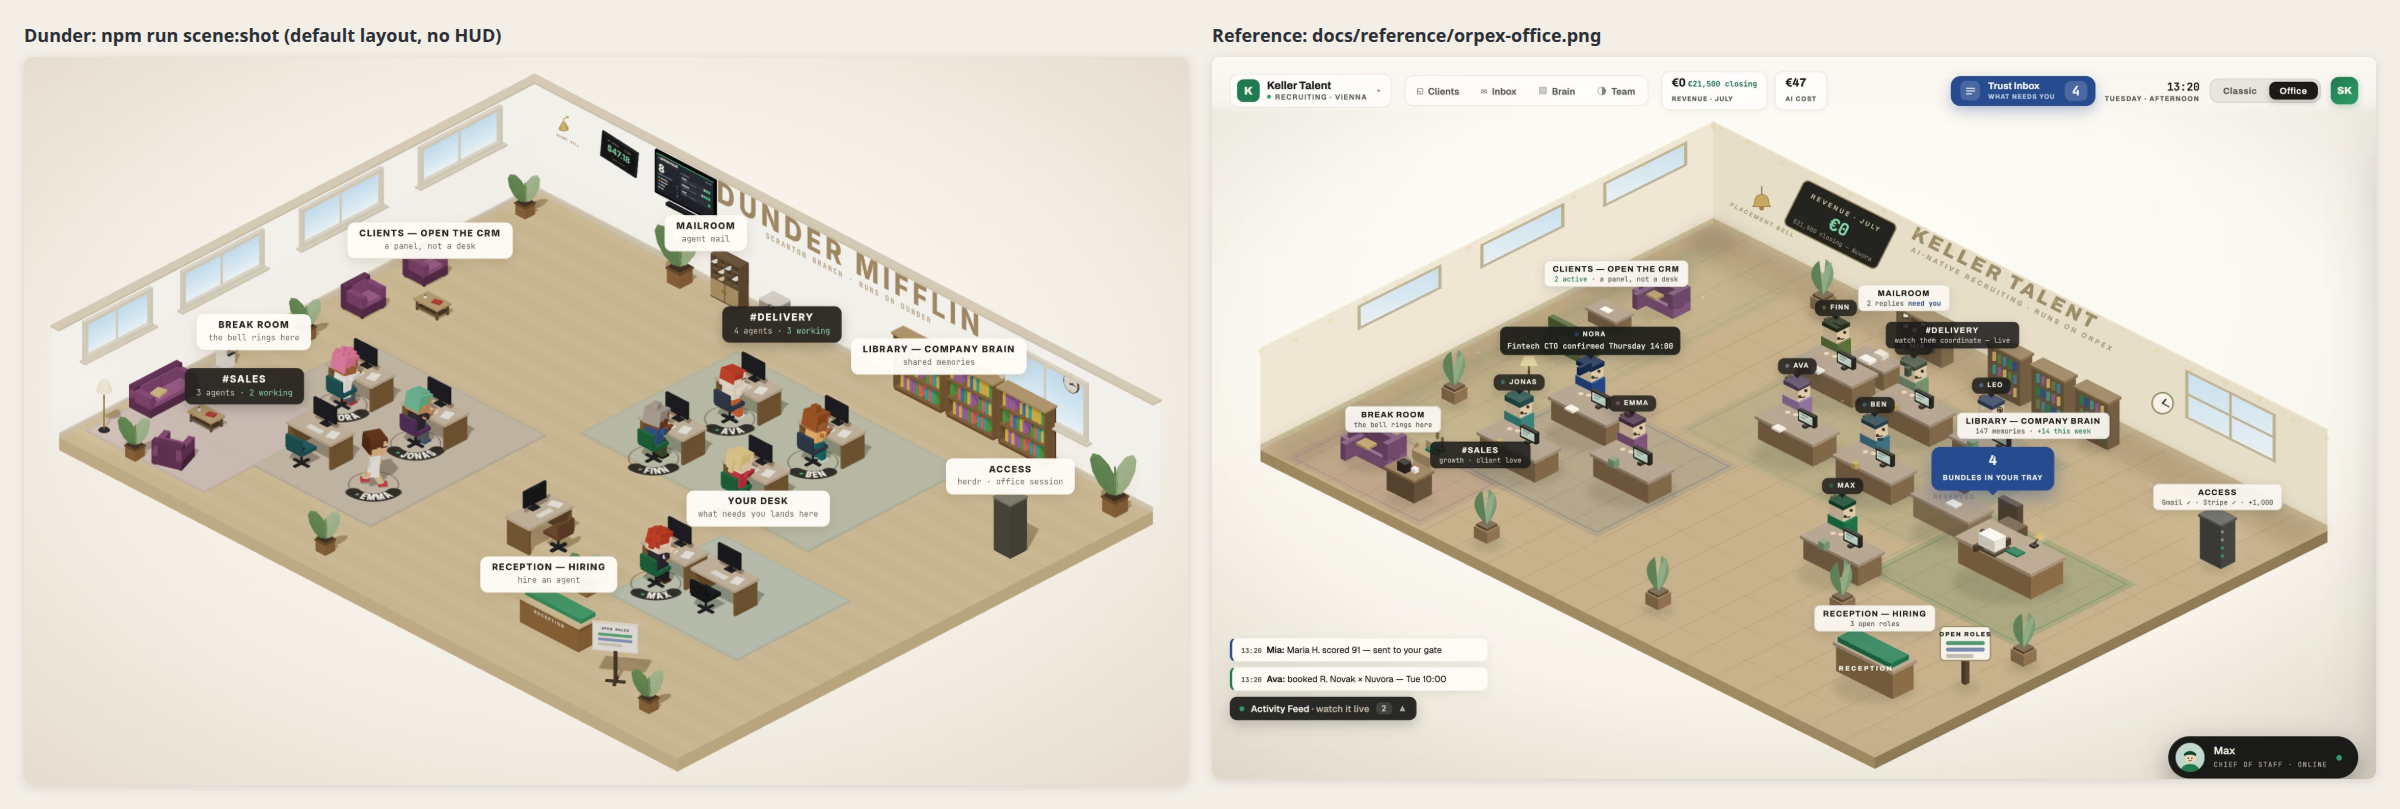
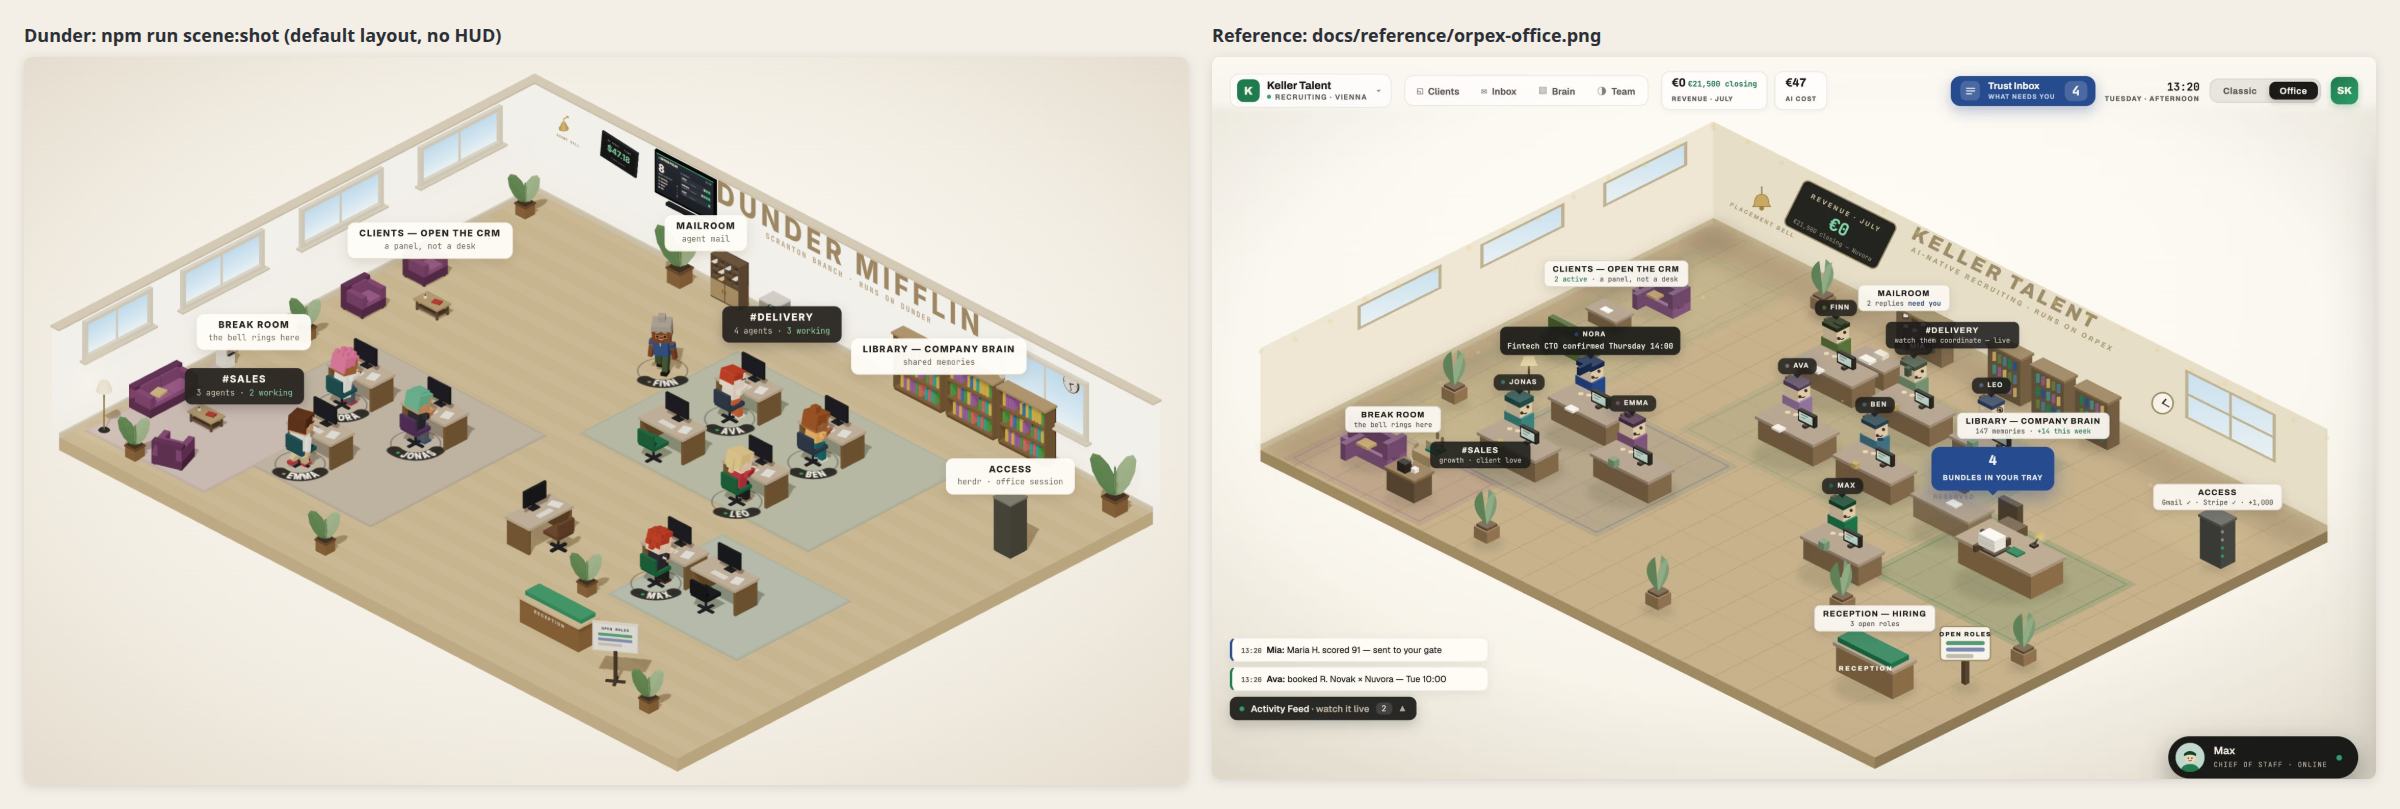
office-bkh: YOUR DESK and RECEPTION become minimal hover captions (zone labelMode always|hover, migration, inspector field); new scene shots

diff --git a/src/shared/layout/default-layout.ts b/src/shared/layout/default-layout.ts
@@ -1,4 +1,4 @@
-import { type Layout, layoutSchema } from "./schema";
+import { type Layout, layoutSchema, type Zone } from "./schema";
 
 /**
  * The starter office, modelled on docs/reference/orpex-office.png: a long
@@ -48,6 +48,7 @@ export const DEFAULT_LAYOUT: Layout = layoutSchema.parse({
 			rug: { center: { x: 7.6, z: 2.4 }, width: 5.4, depth: 4.8, color: "#9fb69a" },
 			labelAt: { x: 7.6, z: 1.2 },
 			labelHeight: 2.6,
+			labelMode: "hover",
 		},
 		{
 			id: "break-room",
@@ -81,6 +82,7 @@ export const DEFAULT_LAYOUT: Layout = layoutSchema.parse({
 			title: "RECEPTION — HIRING",
 			subtitle: "hire an agent",
 			labelAt: { x: 5.4, z: 7.8 },
+			labelMode: "hover",
 		},
 	],
 	// Few stations, mostly filled, as in the reference: a staggered sales pod, a
@@ -208,14 +210,7 @@ const FORMER_DEFAULT_FLOOR = "#cfa979";
 /** The default wall height before it was lowered toward the reference (office-vl9.7). */
 const FORMER_DEFAULT_WALL_HEIGHT = 4.2;
 
-/**
- * Bring a saved layout up to date with changed defaults. Companies copy the
- * default layout when created, so a floor colour or wall height still on its
- * former default was never chosen by anyone: each moves to the current default
- * on its own. Any other value is kept.
- */
-export function migrateLayout(layout: Layout): Layout {
-	const { room } = layout;
+function migrateRoom(room: Layout["room"]): Layout["room"] {
 	const floorColor =
 		room.floorColor.toLowerCase() === FORMER_DEFAULT_FLOOR
 			? DEFAULT_LAYOUT.room.floorColor
@@ -224,6 +219,40 @@ export function migrateLayout(layout: Layout): Layout {
 		room.wallHeight === FORMER_DEFAULT_WALL_HEIGHT
 			? DEFAULT_LAYOUT.room.wallHeight
 			: room.wallHeight;
-	if (floorColor === room.floorColor && wallHeight === room.wallHeight) return layout;
-	return { ...layout, room: { ...room, floorColor, wallHeight } };
+	if (floorColor === room.floorColor && wallHeight === room.wallHeight) return room;
+	return { ...room, floorColor, wallHeight };
+}
+
+/** Default zones whose card became a hover caption (office-bkh), by id. */
+const HOVER_ZONES = new Map(
+	DEFAULT_LAYOUT.zones.filter((zone) => zone.labelMode === "hover").map((zone) => [zone.id, zone]),
+);
+
+/**
+ * A zone saved before label modes existed (no `labelMode`) that still carries
+ * its default title and subtitle takes the default's hover caption.
+ */
+function migrateZone(zone: Zone): Zone {
+	const fresh = HOVER_ZONES.get(zone.id);
+	const untouched =
+		fresh !== undefined &&
+		zone.labelMode === undefined &&
+		zone.title === fresh.title &&
+		zone.subtitle === fresh.subtitle;
+	return untouched ? { ...zone, labelMode: "hover" } : zone;
+}
+
+/**
+ * Bring a saved layout up to date with changed defaults. Companies copy the
+ * default layout when created, so a value still on its former default was
+ * never chosen by anyone: it moves to the current default on its own (floor
+ * colour, wall height, and the hover captions of the "you" and "reception"
+ * zones). Any other value is kept.
+ */
+export function migrateLayout(layout: Layout): Layout {
+	const room = migrateRoom(layout.room);
+	const zones = layout.zones.map(migrateZone);
+	const zonesChanged = zones.some((zone, index) => zone !== layout.zones[index]);
+	if (room === layout.room && !zonesChanged) return layout;
+	return { ...layout, room, zones };
 }

diff --git a/src/renderer/src/features/office/labels/ZoneCaption.tsx b/src/renderer/src/features/office/labels/ZoneCaption.tsx
@@ -1,0 +1,67 @@
+import { Html } from "@react-three/drei";
+import { useThree } from "@react-three/fiber";
+import type { Zone } from "@shared/layout/schema";
+import { useEffect, useState } from "react";
+import { Plane, Raycaster, Vector2, Vector3 } from "three";
+import { hoverZoneAt } from "./zone-hover";
+
+const FLOOR = new Plane(new Vector3(0, 1, 0), 0);
+/** Captions sit low, near the objects they name, rather than floating like cards. */
+const CAPTION_HEIGHT = 1.3;
+const OVERLAY_STYLE = { pointerEvents: "none" } as const;
+
+/**
+ * The hover-labelled zone under the pointer: where its ray meets the floor,
+ * worked out on each pointer move over the canvas; none once it leaves.
+ */
+export function useHoveredZone(zones: readonly Zone[]): string | null {
+	const [hovered, setHovered] = useState<string | null>(null);
+	const element = useThree((state) => state.gl.domElement);
+	const camera = useThree((state) => state.camera);
+	useEffect(() => {
+		const raycaster = new Raycaster();
+		const pointer = new Vector2();
+		const hit = new Vector3();
+		const move = (event: PointerEvent): void => {
+			const rect = element.getBoundingClientRect();
+			pointer.set(
+				((event.clientX - rect.left) / rect.width) * 2 - 1,
+				-((event.clientY - rect.top) / rect.height) * 2 + 1,
+			);
+			raycaster.setFromCamera(pointer, camera);
+			const onFloor = raycaster.ray.intersectPlane(FLOOR, hit);
+			setHovered(hoverZoneAt(zones, onFloor ? { x: onFloor.x, z: onFloor.z } : null));
+		};
+		const leave = (): void => setHovered(null);
+		element.addEventListener("pointermove", move);
+		element.addEventListener("pointerleave", leave);
+		return () => {
+			element.removeEventListener("pointermove", move);
+			element.removeEventListener("pointerleave", leave);
+		};
+	}, [element, camera, zones]);
+	return hovered;
+}
+
+/**
+ * A hover-mode zone's label: its title as a small lowercase caption near the
+ * zone, faded in only while the zone is hovered. Always mounted, so showing it
+ * never shifts anything.
+ */
+export function ZoneCaption(props: { readonly zone: Zone; readonly visible: boolean }) {
+	const { zone } = props;
+	const at = zone.labelAt ?? zone.rug?.center;
+	if (!at) return null;
+	return (
+		<Html
+			position={[at.x, CAPTION_HEIGHT, at.z]}
+			center
+			zIndexRange={[20, 10]}
+			style={OVERLAY_STYLE}
+		>
+			<span className="zone-caption" data-visible={props.visible}>
+				{zone.title.toLowerCase()}
+			</span>
+		</Html>
+	);
+}

diff --git a/src/main/companies/store.test.ts b/src/main/companies/store.test.ts
@@ -4,6 +4,7 @@ import { join } from "node:path";
 import type { Company } from "@shared/company/company";
 import { firstCompany, seedCompany } from "@shared/company/company-ops";
 import { DEFAULT_LAYOUT } from "@shared/layout/default-layout";
+import type { Zone } from "@shared/layout/schema";
 import { afterEach, beforeEach, describe, expect, it } from "vitest";
 import { loadCompanies, openCompanies, saveCompany, saveCurrentId } from "./store";
 
@@ -93,5 +94,31 @@ describe("company store", () => {
 		expect(rooms.map((room) => room.wallHeight)).toEqual([DEFAULT_LAYOUT.room.wallHeight, 5]);
 		expect(rooms[0]?.floorColor).toBe(DEFAULT_LAYOUT.room.floorColor);
 		expect(DEFAULT_LAYOUT.room.wallHeight).not.toBe(4.2);
+	});
+
+	it("turns untouched YOUR DESK and RECEPTION cards into hover captions, keeping edited or chosen ones", async () => {
+		// As saved before label modes existed: no zone has a labelMode.
+		const predating = (company: Company, edit: (zone: Zone) => Zone = (zone) => zone): Company => ({
+			...company,
+			layout: {
+				...company.layout,
+				zones: company.layout.zones.map(({ labelMode: _mode, ...zone }) => edit(zone)),
+			},
+		});
+		const renamed = (zone: Zone): Zone =>
+			zone.id === "reception" ? { ...zone, title: "FRONT DESK" } : zone;
+		const chosen = (zone: Zone): Zone =>
+			zone.id === "you" ? { ...zone, labelMode: "always" } : zone;
+		await saveCompany(dir, predating(firstCompany(NOW)));
+		await saveCompany(dir, predating(seedCompany("acme", "Acme", "", LATER), renamed));
+		await saveCompany(dir, predating(seedCompany("zeta", "Zeta", "", LATER), chosen));
+		const modes = (await loadCompanies(dir)).map((company) =>
+			Object.fromEntries(company.layout.zones.map((zone) => [zone.id, zone.labelMode])),
+		);
+		expect(modes.map((zones) => [zones["you"], zones["reception"], zones["sales"]])).toEqual([
+			["hover", "hover", undefined],
+			["hover", undefined, undefined],
+			["always", "hover", undefined],
+		]);
 	});
 });

diff --git a/src/shared/layout/ops-update.ts b/src/shared/layout/ops-update.ts
@@ -1,5 +1,5 @@
 import { snapInRoom } from "./ops";
-import type { Callout, Decor, Desk, Layout, Zone } from "./schema";
+import type { Callout, Decor, Desk, Layout, Zone, ZoneLabelMode } from "./schema";
 
 /**
  * Pure field edits for the edit-mode inspector. Text fields set to "" remove
@@ -17,6 +17,8 @@ export interface ZonePatch {
 	readonly rugWidth?: number;
 	readonly rugDepth?: number;
 	readonly rugColor?: string;
+	/** Card always shown, or only a caption on hover; once set it is kept explicitly. */
+	readonly labelMode?: ZoneLabelMode;
 }
 
 const clampSize = (value: number, max: number) =>
@@ -39,7 +41,7 @@ function patchRug(layout: Layout, zone: Zone, patch: ZonePatch): Zone["rug"] {
 	return { center, width, depth, color: patch.rugColor ?? base.color };
 }
 
-/** Edit a zone's title, subtitle, bound workspace label and rug size/colour (adding a rug if it has none). */
+/** Edit a zone's title, subtitle, label mode, bound workspace label and rug size/colour (adding a rug if it has none). */
 export function updateZone(layout: Layout, id: string, patch: ZonePatch): Layout {
 	const edit = (zone: Zone): Zone => {
 		const { subtitle, workspaceLabel, rug: _rug, ...rest } = zone;
@@ -49,6 +51,7 @@ export function updateZone(layout: Layout, id: string, patch: ZonePatch): Layout
 		return {
 			...rest,
 			title: patch.title ?? zone.title,
+			...(patch.labelMode ? { labelMode: patch.labelMode } : {}),
 			...(nextSubtitle ? { subtitle: nextSubtitle } : {}),
 			...(nextLabel ? { workspaceLabel: nextLabel } : {}),
 			...(rug ? { rug } : {}),

diff --git a/src/renderer/src/features/office/labels/zone-hover.test.ts b/src/renderer/src/features/office/labels/zone-hover.test.ts
@@ -1,0 +1,28 @@
+import { DEFAULT_LAYOUT } from "@shared/layout/default-layout";
+import type { Zone } from "@shared/layout/schema";
+import { describe, expect, it } from "vitest";
+import { hoverZoneAt, RUGLESS_REACH } from "./zone-hover";
+
+const zones = DEFAULT_LAYOUT.zones;
+
+describe("hoverZoneAt", () => {
+	it("finds the hover zone whose rug is under the point", () => {
+		// Just behind your desk, where the floor ray lands when pointing at its monitor.
+		expect(hoverZoneAt(zones, { x: 6.9, z: 1.9 })).toBe("you");
+	});
+
+	it("reaches around the label point of a zone without a rug", () => {
+		expect(hoverZoneAt(zones, { x: 5.4, z: 7.4 })).toBe("reception");
+		// The floor point behind the OPEN ROLES board's face.
+		expect(hoverZoneAt(zones, { x: 6.5, z: 6.1 })).toBe("reception");
+		expect(hoverZoneAt(zones, { x: 5.4 + RUGLESS_REACH + 0.1, z: 7.8 })).toBeNull();
+	});
+
+	it("ignores zones that always show their card, and no pointer at all", () => {
+		// The middle of the #SALES rug.
+		expect(hoverZoneAt(zones, { x: -6.6, z: 3.4 })).toBeNull();
+		expect(hoverZoneAt(zones, null)).toBeNull();
+		const always: Zone[] = zones.map(({ labelMode: _mode, ...zone }) => zone);
+		expect(hoverZoneAt(always, { x: 6.9, z: 1.9 })).toBeNull();
+	});
+});

diff --git a/src/renderer/src/features/edit/ZoneInspector.tsx b/src/renderer/src/features/edit/ZoneInspector.tsx
@@ -5,7 +5,7 @@ import { bindWorkspace } from "./edit-actions";
 import { useEdit } from "./edit-store";
 import { applyField, NumberField, TextField } from "./fields";
 
-/** Zone: its card text, the herdr workspace its desks seat agents from, and its rug. */
+/** Zone: its label text and mode, the herdr workspace its desks seat agents from, and its rug. */
 export function ZoneInspector({ zone }: { readonly zone: Zone }) {
 	const [binding, setBinding] = useState(false);
 	const patch = (field: string, change: ZonePatch) =>
@@ -31,6 +31,20 @@ export function ZoneInspector({ zone }: { readonly zone: Zone }) {
 				placeholder={zone.workspaceLabel ? "(shows live head count)" : ""}
 				onChange={(subtitle) => patch("subtitle", { subtitle })}
 			/>
+			<label className="edit-field">
+				<span>Label</span>
+				<select
+					value={zone.labelMode ?? "always"}
+					onChange={(event) =>
+						patch("label-mode", {
+							labelMode: event.target.value === "hover" ? "hover" : "always",
+						})
+					}
+				>
+					<option value="always">Card, always shown</option>
+					<option value="hover">Small caption on hover</option>
+				</select>
+			</label>
 			<TextField
 				label="herdr workspace"
 				value={label}

diff --git a/src/renderer/src/features/office/labels/zone-hover.ts b/src/renderer/src/features/office/labels/zone-hover.ts
@@ -1,0 +1,28 @@
+import type { Vec2, Zone } from "@shared/layout/schema";
+
+/**
+ * How far from its label point a zone without a rug reaches. Generous enough
+ * that pointing at the objects there (the reception desk, the OPEN ROLES board)
+ * counts: under the isometric camera, the floor point behind a tall object lies
+ * up to ~2 units back from it.
+ */
+export const RUGLESS_REACH = 2.6;
+
+function contains(zone: Zone, point: Vec2): boolean {
+	if (zone.rug) {
+		const { center, width, depth } = zone.rug;
+		return Math.abs(point.x - center.x) <= width / 2 && Math.abs(point.z - center.z) <= depth / 2;
+	}
+	if (!zone.labelAt) return false;
+	return Math.hypot(point.x - zone.labelAt.x, point.z - zone.labelAt.z) <= RUGLESS_REACH;
+}
+
+/**
+ * The hover-labelled zone under a floor point (where the pointer's ray meets
+ * the floor): inside its rug, or near the label point of a zone with no rug.
+ * Zones that always show their card are ignored.
+ */
+export function hoverZoneAt(zones: readonly Zone[], point: Vec2 | null): string | null {
+	if (!point) return null;
+	return zones.find((zone) => zone.labelMode === "hover" && contains(zone, point))?.id ?? null;
+}

diff --git a/src/shared/layout/schema.ts b/src/shared/layout/schema.ts
@@ -68,8 +68,16 @@ export const zoneSchema = z.object({
 	/** Where the zone's floating label card sits (defaults to the rug centre). */
 	labelAt: vec2Schema.optional(),
 	labelHeight: z.number().default(2.2),
+	/**
+	 * `always` (or absent): a floating card. `hover`: only a small caption while
+	 * the pointer is over the zone (its rug, or the floor around its label point).
+	 * Absent rather than defaulted, so a saved layout that predates the field can
+	 * be told apart from one where someone chose `always` (see `migrateLayout`).
+	 */
+	labelMode: z.enum(["always", "hover"]).optional(),
 });
 export type Zone = z.infer<typeof zoneSchema>;
+export type ZoneLabelMode = NonNullable<Zone["labelMode"]>;
 
 export const deskSchema = z.object({
 	id: z.string(),

diff --git a/src/renderer/src/features/office/labels/ZoneCards.tsx b/src/renderer/src/features/office/labels/ZoneCards.tsx
@@ -1,6 +1,7 @@
 import type { Layout } from "@shared/layout/schema";
 import type { LiveAgent } from "../model/live-agents";
 import { ZoneCard } from "./Labels";
+import { useHoveredZone, ZoneCaption } from "./ZoneCaption";
 
 interface ZoneLine {
 	readonly subtitle?: string | undefined;
@@ -26,9 +27,13 @@ export function ZoneCards(props: {
 	readonly agents: readonly LiveAgent[];
 }) {
 	const { layout, agents } = props;
+	const hovered = useHoveredZone(layout.zones);
 	return (
 		<>
 			{layout.zones.map((zone) => {
+				if (zone.labelMode === "hover") {
+					return <ZoneCaption key={zone.id} zone={zone} visible={hovered === zone.id} />;
+				}
 				const at = zone.labelAt ?? zone.rug?.center;
 				if (!at) return null;
 				return (

diff --git a/src/renderer/src/features/office/labels/labels.css b/src/renderer/src/features/office/labels/labels.css
@@ -93,3 +93,28 @@
 .zone-card-accent em {
 	color: inherit;
 }
+
+/*
+ * Hover-mode zones: no card, just the zone's name in small lowercase over a
+ * thin underline, faded in while the pointer is over the zone. Always laid out,
+ * so appearing never shifts anything.
+ */
+.zone-caption {
+	display: inline-block;
+	padding: 0 2px 2px;
+	border-bottom: 1px solid #26231f66;
+	font: 600 11px / 1.2 var(--font-ui);
+	letter-spacing: 0.04em;
+	color: var(--ink);
+	text-shadow:
+		0 0 6px #fffdf8,
+		0 0 2px #fffdf8;
+	white-space: nowrap;
+	user-select: none;
+	opacity: 0;
+	transition: opacity 160ms ease-out;
+}
+
+.zone-caption[data-visible="true"] {
+	opacity: 1;
+}
